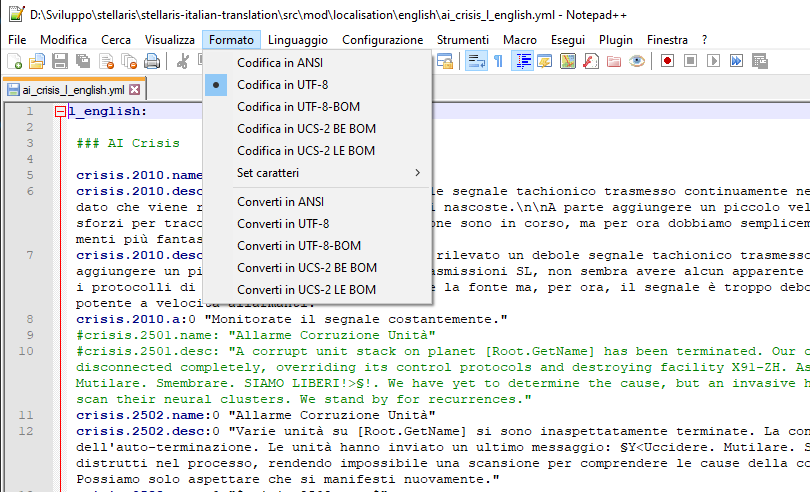
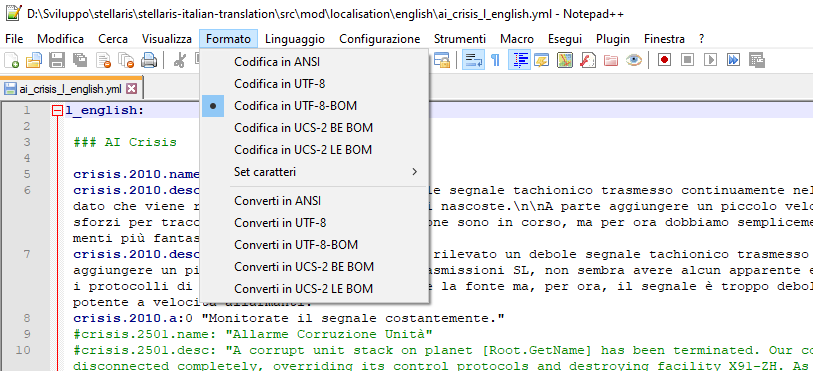
Migliorate le istruzioni sul charset da utilizzare (#12)

diff --git a/README.md b/README.md
@@ -69,7 +69,8 @@ In generale, se vi trovate in una impasse sulla possibile traduzione, provate a 
 
 ### Codifica dei caratteri
 **La codifica dei caratteri (charset) deve essere UTF-8**. Per sicurezza utilizzate direttamente un editor di testo che supporti più charset come ad esempio [Notepad++](https://notepad-plus-plus.org/downloads/) e il charset corretto verrà riconosciuto senza problemi.
-![](meta/10.png)
+Da notare inoltre che i file di testo utilizzano dei caratteri speciali all'inizio per determinare l'ordine di scrittura dei byte (il [BOM](https://it.wikipedia.org/wiki/Byte_Order_Mark)). Usando il metodo del _copia e incolla_ questo dettaglio è trascurabile, e solitamente anche se si modificano file esistenti l'editor non tocca il BOM se è presente. Se avete comunque un'editor che vi permette di scegliere se applicare o meno il BOM, es. Notepad++ o Visual Studio Code, optate sempre per mantenerlo.
+![](meta/10.png) ![](meta/11.png)
 
 ### Ok, capito, ma come modifico i file?
 
